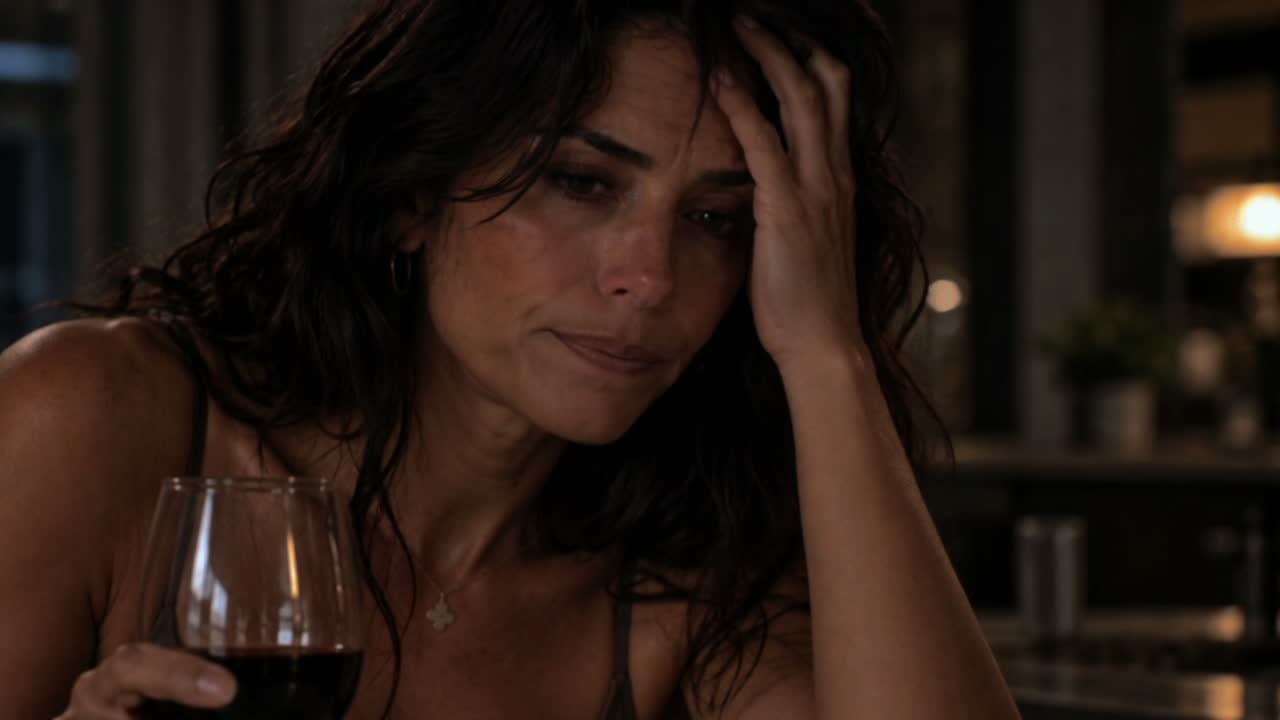
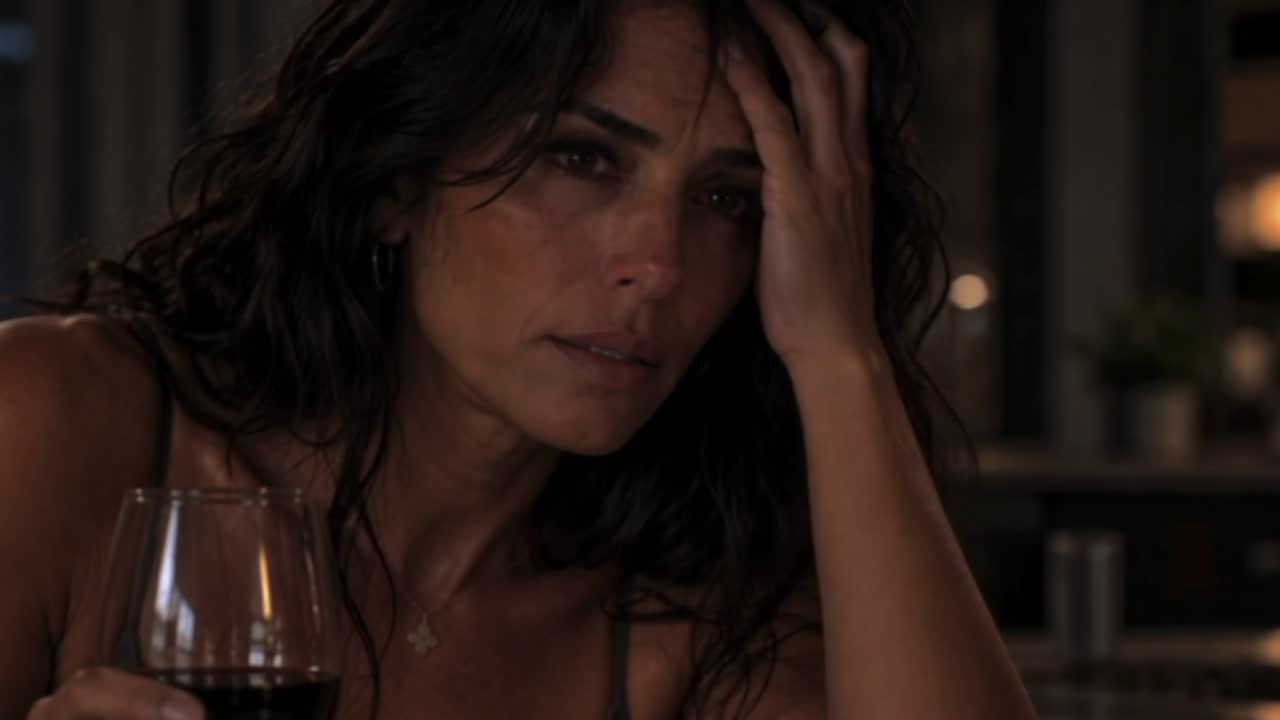
The scored cuts of the wine glass and the blonde guy
Both scenes swap to the version with music. Same move josh-luna-wall
made on 2026-08-05, and the unscored masters stay beside them in
stories/ for reverting.

BOTH ARE THE SAME EDIT, checked rather than assumed: head frames match,
the picture ends at the same second, and the beats every downstream note
depends on — the 2:16 throw, the 2:26 poster, the 2:14 and 2:00 preview
windows — are where they were. Only the mix and the resolution moved, so
durationSeconds, poster seconds and hook starts are all unchanged.

THE WINE CUT INVERTS ITS OWN ENTRY. The silent master measured -38.9 dB
mean against a -0.2 dB peak, the quietest delivery this library had, and
the note in videos.ts argued that the gap between those two numbers WAS
the scene — two and a half minutes of somebody making no noise and one
glass hitting a wall. This one runs -17.2 dB with the score underneath
the whole thing. The old reasoning is obsolete rather than wrong, and
the comment is rewritten rather than left describing a file that is no
longer the one playing.

BOTH ARRIVED WITH BLACK ON THE TAIL — 5.6s on the wine, 4s on the bar.
That is four deliveries in a row, and the bar one is notable because its
unscored master had none. Trimmed at 148 and 183.

Worth writing down: `blackdetect` at pic_th=0.98 does NOT catch either
of these. A per-second frame-luma sweep does, and that is what found
them. The picture in both holds full brightness to its last frame and
[…]

diff --git a/lib/content/videos.ts b/lib/content/videos.ts
@@ -2013,9 +2013,18 @@ export const videos: Video[] = [
       "They had dinner plans, as friends. He turns up very late and will not say why. She is waiting at the bar when a man decides she looks like company, and goes on deciding it long after she has made herself clear.",
     file: "ty-luna-blonde-guy-bar.proxy.mp4",
     poster: "/posters/ty-luna-blonde-guy-bar.jpg",
-    // 183, and no trimming needed — no trailing black anywhere in the master.
-    // The 3s fade is on the proxy: the picture holds full brightness to the
-    // last frame with the audio still running, so it stopped rather than ended.
+    // 183. NOW THE SCORED CUT (2026-09-10) — the unscored master is still at
+    // stories/ty-luna-blonde-guy-bar/luna-ty-blonde-guy-bar.mp4 if this needs
+    // reverting. Same edit, so the 2:26 poster and the 2:14 preview window are
+    // unchanged; only the mix and the resolution moved.
+    //
+    // TRIMMED AT 183. The unscored master had no trailing black and this one
+    // has 4s of it, which is the fourth delivery in a row to arrive that way —
+    // check the tail every time, and with a frame-luma sweep rather than
+    // blackdetect, which misses it at pic_th=0.98.
+    //
+    // The 3s fade on the proxy stays: the picture still holds full brightness
+    // to its last frame with the audio running, so it stops rather than ends.
     durationSeconds: 183,
     addedOn: "2026-09-09",
     access: "premium",
@@ -2133,7 +2142,21 @@ export const videos: Video[] = [
       "A few days after she left, in a house with nobody else in it and the phone still going. She is working out whether she gave up too soon — and getting used to a quiet she has not lived in for ten years.",
     file: "luna-lkehouse-wine-shatter.proxy.mp4",
     poster: "/posters/luna-lkehouse-wine-shatter.jpg",
-    // 148, untrimmed — no trailing black anywhere. The 3s fade is on the proxy.
+    // 148. NOW THE SCORED CUT (2026-09-10) — the silent master is still at
+    // stories/luna-lkehouse-wine-shatter/luna-lkehouse-wine-shatter.mp4 if
+    // this needs reverting. Same edit: head frames match, picture runs to
+    // 148.6 in both, the throw is still at 2:16, so the poster second and the
+    // preview window are unchanged.
+    //
+    // THE OLD NOTE HERE ARGUED THE SILENCE WAS THE SCENE — -38.9 dB mean
+    // against a -0.2 dB peak, the quietest delivery in the library, and an
+    // instruction not to normalise it. That is obsolete rather than wrong:
+    // this cut is -17.2 dB mean with the score running underneath the whole
+    // thing, which is the version Melissa is shipping.
+    //
+    // TRIMMED AT 148 — it arrived with 5.6s of black on the tail. The picture
+    // still ends at full brightness with the audio running, so the 3s fade on
+    // the proxy stays; the black was padding, not a fade.
     durationSeconds: 148,
     addedOn: "2026-09-10",
     access: "premium",
